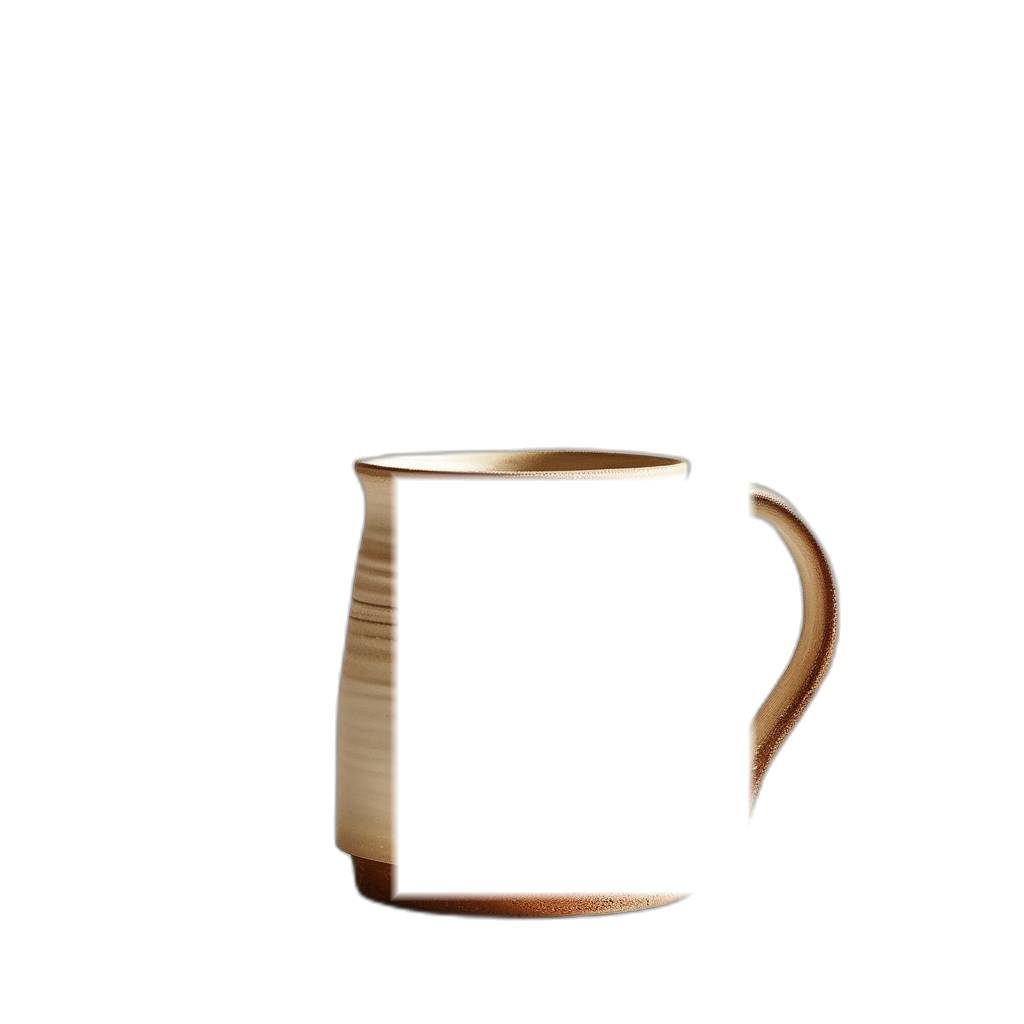
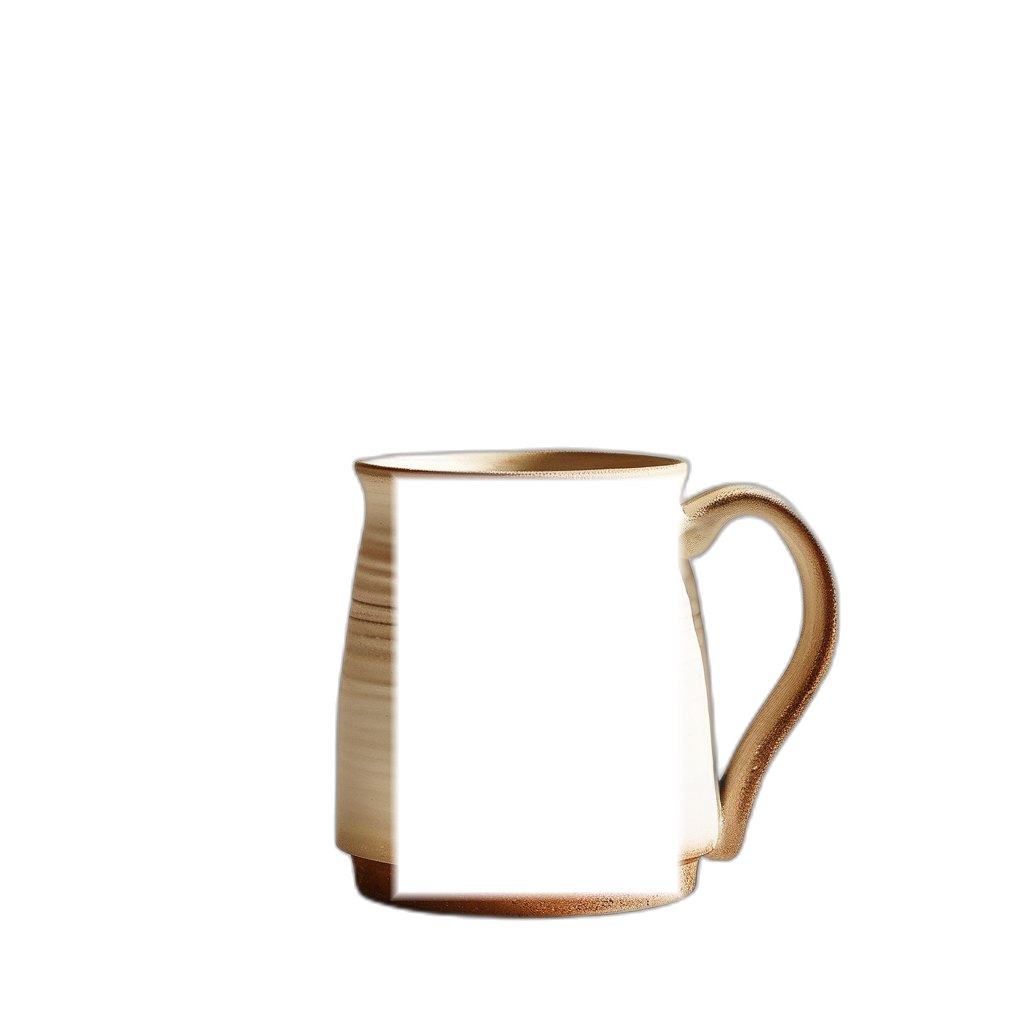
fix: 精确修正把手左边界 x=0.680，clipX2 收到 0.670
像素扫描确认把手左边界实际是 x=0.680（之前估的 0.76 是把手中间位置）。
两个 zone 的 clipX2 都收到 0.670，确保设计图不超过把手。

- outer-front: clipX2 0.730→0.670，width 0.340→0.280
- outer-wrap: clipX2 0.740→0.670，width 0.430→0.326
- mug-fg.png 可印刷区域右边界同步收到 x=0.670

Changed region(s): [[0.6562, 0.625, 0.75, 0.875], [0.6562, 0.4688, 0.75, 0.625]]

diff --git a/src/lib/totem-mapping.ts b/src/lib/totem-mapping.ts
@@ -107,25 +107,26 @@ export const PRODUCT_CONFIGS: Record<ProductType, ProductConfig> = {
       {
         // 外壁正面：杯身可印刷区域（透明背景方案，不需要圆柱变形）
         // 杯身实测: x=0.344~0.816, y=0.440~0.894（1024x1024 图）
-        // 可印刷区域（排除把手）: x=0.38~0.77
+        // 可印刷区域（排除把手）: 把手左边界实测 x=0.680，clipX2 设为 0.670
         id: 'outer-front',
         label: { zh: '外壁正面', en: 'Outer Front' },
         meaning: { zh: '每次饮茶时与图腾相遇，日常仪式感', en: 'Meet your totem with every sip — daily ritual' },
-        x: 0.390, y: 0.460, width: 0.340, height: 0.400,
+        x: 0.390, y: 0.460, width: 0.280, height: 0.400,
         cornerRatio: 0.10,
         shape: 'rect',
         shapeParams: { fillRatio: 0.85 },
+        clipX2: 0.670,  // 把手左边界实测 x=0.680，留 1% 安全边距
       },
       {
         // 外壁环绕：杯身全宽
         id: 'outer-wrap',
         label: { zh: '外壁环绕', en: 'Full Wrap' },
         meaning: { zh: '360° 环绕印刷，图腾守护四方', en: '360° wrap — your totem guards every angle' },
-        x: 0.344, y: 0.460, width: 0.430, height: 0.400,
+        x: 0.344, y: 0.460, width: 0.326, height: 0.400,
         cornerRatio: 0.08,
         shape: 'rect',
         shapeParams: { fillRatio: 0.88 },
-        clipX2: 0.740,  // 把手从 x≈0.76 开始，clip 右边界留 2% 安全边距
+        clipX2: 0.670,  // 把手左边界实测 x=0.680，留 1% 安全边距
       },
     ],
   },
